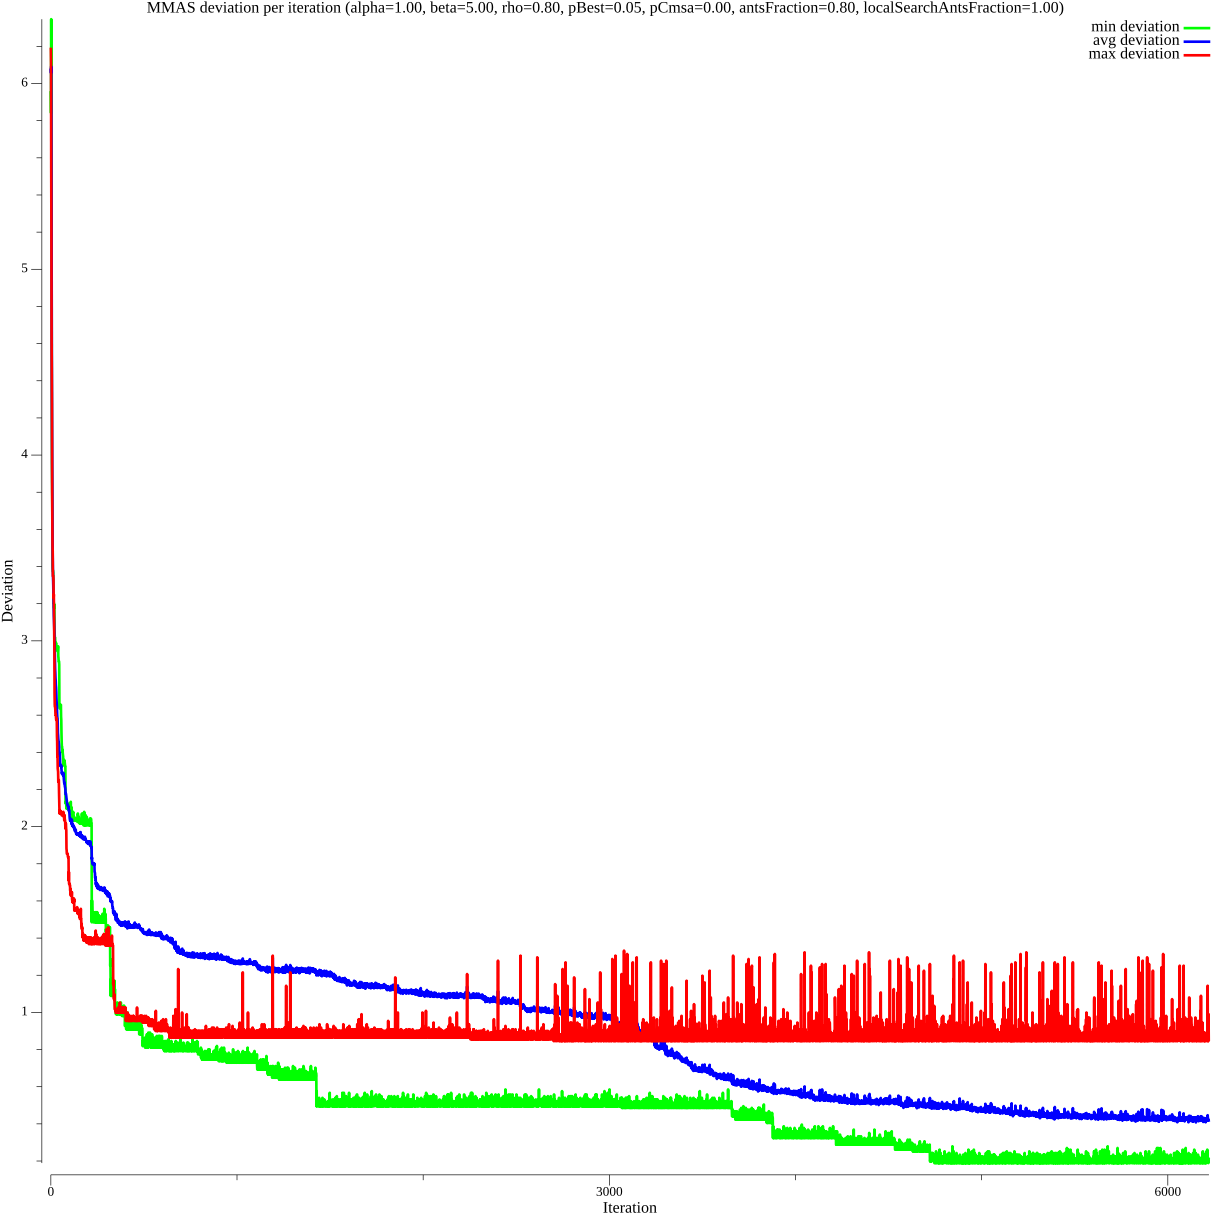
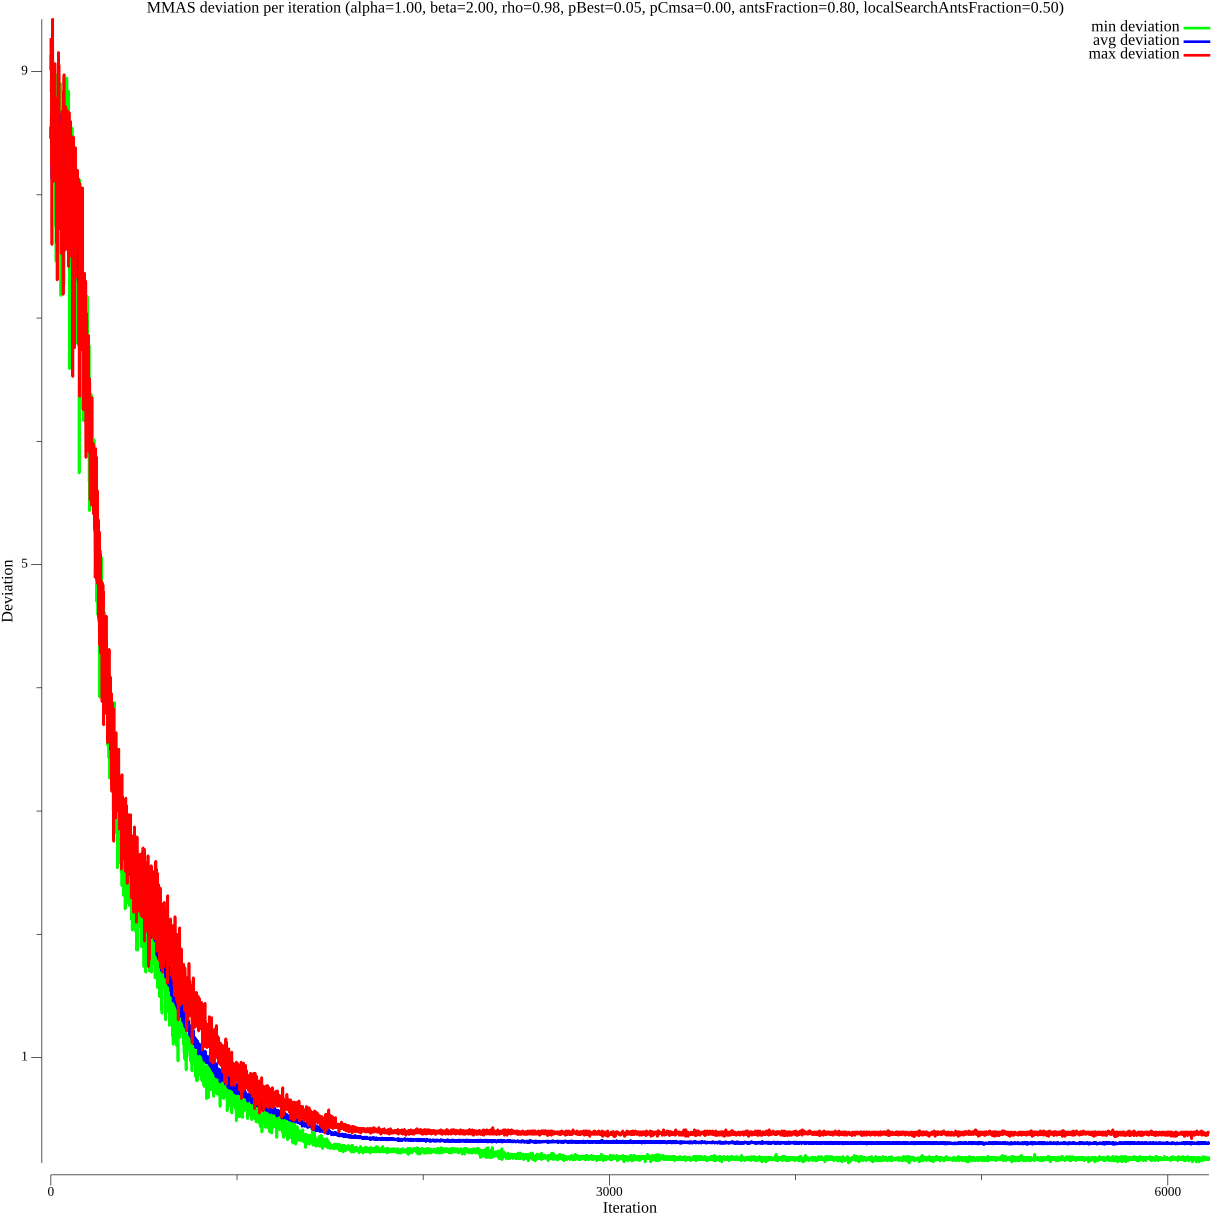
got rid of pBest since now its automatically calculated

Changed region(s): [[0.0312, 0.0312, 0.9984, 0.9672]]

diff --git a/main.go b/main.go
@@ -29,8 +29,8 @@ type ExperimentsData struct {
 }
 
 type ExperimentParameters struct {
-	alpha, beta, rho, pBest, pCmsa, antsPercentage, localSearchAntsPercentage float64
-	antsNumber, localSearchAntsNumber, iterations                             int
+	alpha, beta, rho, pCmsa, antsPercentage, localSearchAntsPercentage float64
+	antsNumber, localSearchAntsNumber, iterations                      int
 }
 
 type ExperimentResult struct {
@@ -96,7 +96,6 @@ func saveBestParametersInfo(fileName string, bestStatistics []ExperimentsDataSta
 	alphaCounts := make(map[float64]int)
 	betaCounts := make(map[float64]int)
 	rhoCounts := make(map[float64]int)
-	pBestCounts := make(map[float64]int)
 	pCmsaCounts := make(map[float64]int)
 	antsPercentageCounts := make(map[float64]int)
 	localSearchAntsPercentageCounts := make(map[float64]int)
@@ -106,7 +105,6 @@ func saveBestParametersInfo(fileName string, bestStatistics []ExperimentsDataSta
 		alphaCounts[params.alpha]++
 		betaCounts[params.beta]++
 		rhoCounts[params.rho]++
-		pBestCounts[params.pBest]++
 		pCmsaCounts[params.pCmsa]++
 		antsPercentageCounts[params.antsPercentage]++
 		localSearchAntsPercentageCounts[params.localSearchAntsPercentage]++
@@ -120,12 +118,12 @@ func saveBestParametersInfo(fileName string, bestStatistics []ExperimentsDataSta
 
 	// Best parameters
 	markdown += "## Best Parameters\n\n"
-	markdown += "| Alpha | Beta | Rho | pBest | pCmsa | AntsPercentage | LocalSearchAntsPercentage |\n"
-	markdown += "|-------|------|-----|-------|-------|----------------|---------------------------|\n"
+	markdown += "| Alpha | Beta | Rho | pCmsa | AntsPercentage | LocalSearchAntsPercentage |\n"
+	markdown += "|-------|------|-----|-------|----------------|---------------------------|\n"
 	for parameters := range uniqueParameters {
-		markdown += fmt.Sprintf("| %.2f | %.2f | %.2f | %.2f | %.2f | %.2f | %.2f |\n",
+		markdown += fmt.Sprintf("| %.2f | %.2f | %.2f | %.2f | %.2f | %.2f |\n",
 			parameters.alpha, parameters.beta, parameters.rho,
-			parameters.pBest, parameters.pCmsa, parameters.antsPercentage, parameters.localSearchAntsPercentage)
+			parameters.pCmsa, parameters.antsPercentage, parameters.localSearchAntsPercentage)
 	}
 	markdown += "\n"
 
@@ -134,7 +132,6 @@ func saveBestParametersInfo(fileName string, bestStatistics []ExperimentsDataSta
 	markdown += generateMarkdownCounts("Alpha", alphaCounts)
 	markdown += generateMarkdownCounts("Beta", betaCounts)
 	markdown += generateMarkdownCounts("Rho", rhoCounts)
-	markdown += generateMarkdownCounts("PBest", pBestCounts)
 	markdown += generateMarkdownCounts("pCmsa", pCmsaCounts)
 	markdown += generateMarkdownCounts("AntsPercentage", antsPercentageCounts)
 	markdown += generateMarkdownCounts("LocalSearchAntsPercentage", localSearchAntsPercentageCounts)
@@ -144,7 +141,6 @@ func saveBestParametersInfo(fileName string, bestStatistics []ExperimentsDataSta
 	minAlpha, maxAlpha := findMinMax(alphaCounts)
 	minBeta, maxBeta := findMinMax(betaCounts)
 	minRho, maxRho := findMinMax(rhoCounts)
-	minPBest, maxPBest := findMinMax(pBestCounts)
 	minPCmsa, maxPCmsa := findMinMax(pCmsaCounts)
 	minAntsPercentage, maxAntsPercentage := findMinMax(antsPercentageCounts)
 	minLocalSearchAntsPercentage, maxLocalSearchAntsPercentage := findMinMax(localSearchAntsPercentageCounts)
@@ -152,7 +148,6 @@ func saveBestParametersInfo(fileName string, bestStatistics []ExperimentsDataSta
 	markdown += fmt.Sprintf("- **Alpha**: %.2f - %.2f\n", minAlpha, maxAlpha)
 	markdown += fmt.Sprintf("- **Beta**: %.2f - %.2f\n", minBeta, maxBeta)
 	markdown += fmt.Sprintf("- **Rho**: %.2f - %.2f\n", minRho, maxRho)
-	markdown += fmt.Sprintf("- **pBest**: %.2f - %.2f\n", minPBest, maxPBest)
 	markdown += fmt.Sprintf("- **pCmsa**: %.2f - %.2f\n", minPCmsa, maxPCmsa)
 	markdown += fmt.Sprintf("- **AntsPercentage**: %.2f - %.2f\n", minAntsPercentage, maxAntsPercentage)
 	markdown += fmt.Sprintf("- **LocalSearchAntsPercentage**: %.2f - %.2f\n", minLocalSearchAntsPercentage, maxLocalSearchAntsPercentage)
@@ -390,30 +385,28 @@ func readStatistics(csvFilePath string) ([]ExperimentsDataStatistics, error) {
 		alpha, _ := strconv.ParseFloat(record[0], 64)
 		beta, _ := strconv.ParseFloat(record[1], 64)
 		rho, _ := strconv.ParseFloat(record[2], 64)
-		pBest, _ := strconv.ParseFloat(record[3], 64)
-		pCmsa, _ := strconv.ParseFloat(record[4], 64)
-		antsPercentage, _ := strconv.ParseFloat(record[5], 64)
-		antsNumber, _ := strconv.Atoi(record[6])
-		localSearchAntsPercentage, _ := strconv.ParseFloat(record[7], 64)
-		iterations, _ := strconv.Atoi(record[8])
-		minBestAtIteration, _ := strconv.Atoi(record[9])
-		averageBestAtIteration, _ := strconv.ParseFloat(record[10], 64)
-		maxBestAtIteration, _ := strconv.Atoi(record[11])
-		minThreeOptImprovementsCount, _ := strconv.Atoi(record[12])
-		averageThreeOptImprovementsCount, _ := strconv.ParseFloat(record[13], 64)
-		maxThreeOptImprovementsCount, _ := strconv.Atoi(record[14])
-		minBestDeviation, _ := strconv.ParseFloat(record[15], 64)
-		averageBestDeviation, _ := strconv.ParseFloat(record[16], 64)
-		maxBestDeviation, _ := strconv.ParseFloat(record[17], 64)
-		successRate, _ := strconv.ParseFloat(record[18], 64)
-		averageComputationTime, _ := strconv.ParseInt(record[19], 10, 64)
+		pCmsa, _ := strconv.ParseFloat(record[3], 64)
+		antsPercentage, _ := strconv.ParseFloat(record[4], 64)
+		antsNumber, _ := strconv.Atoi(record[5])
+		localSearchAntsPercentage, _ := strconv.ParseFloat(record[6], 64)
+		iterations, _ := strconv.Atoi(record[7])
+		minBestAtIteration, _ := strconv.Atoi(record[8])
+		averageBestAtIteration, _ := strconv.ParseFloat(record[9], 64)
+		maxBestAtIteration, _ := strconv.Atoi(record[10])
+		minThreeOptImprovementsCount, _ := strconv.Atoi(record[11])
+		averageThreeOptImprovementsCount, _ := strconv.ParseFloat(record[12], 64)
+		maxThreeOptImprovementsCount, _ := strconv.Atoi(record[13])
+		minBestDeviation, _ := strconv.ParseFloat(record[14], 64)
+		averageBestDeviation, _ := strconv.ParseFloat(record[15], 64)
+		maxBestDeviation, _ := strconv.ParseFloat(record[16], 64)
+		successRate, _ := strconv.ParseFloat(record[17], 64)
+		averageComputationTime, _ := strconv.ParseInt(record[18], 10, 64)
 
 		statistic := ExperimentsDataStatistics{
 			ExperimentParameters: ExperimentParameters{
 				alpha:                     alpha,
 				beta:                      beta,
 				rho:                       rho,
-				pBest:                     pBest,
 				pCmsa:                     pCmsa,
 				antsPercentage:            antsPercentage,
 				antsNumber:                antsNumber,
@@ -444,7 +437,6 @@ func saveStatistics(resultCsvPath string, statistics []ExperimentsDataStatistics
 		"Alpha",
 		"Beta",
 		"Rho",
-		"pBest",
 		"pCmsa",
 		"Ants fraction",
 		"Ants number",
@@ -476,7 +468,6 @@ func saveStatistics(resultCsvPath string, statistics []ExperimentsDataStatistics
 			fmt.Sprintf(floatFormat, statistic.alpha),
 			fmt.Sprintf(floatFormat, statistic.beta),
 			fmt.Sprintf(floatFormat, statistic.rho),
-			fmt.Sprintf(floatFormat, statistic.pBest),
 			fmt.Sprintf(floatFormat, statistic.pCmsa),
 			fmt.Sprintf(floatFormat, statistic.antsPercentage),
 			strconv.Itoa(statistic.antsNumber),
@@ -617,7 +608,6 @@ func runExperiments(numberOfRuns int, parameters ExperimentParameters, knownOpti
 		parameters.alpha,
 		parameters.beta,
 		parameters.rho,
-		parameters.pBest,
 		parameters.pCmsa,
 		parameters.antsNumber,
 		parameters.localSearchAntsNumber,
@@ -668,15 +658,13 @@ func generateParameters() []ExperimentParameters {
 	for _, alpha := range utilities.GenerateRange(1.0, 1.0, 0.25) {
 		for _, beta := range utilities.GenerateRange(2.0, 2.0, 1.0) {
 			for _, rho := range utilities.GenerateRange(0.8, 0.8, 0.1) {
-				for _, pBest := range utilities.GenerateRange(0.005, 0.005, 0.005) {
-					for _, pCmsa := range utilities.GenerateRange(0.0, 1.0, 0.25) {
-						for _, antsPercentage := range utilities.GenerateRange(0.8, 0.8, 0.1) {
-							for _, localSearchAntsPercentage := range utilities.GenerateRange(0.5, 0.5, 0.5) {
-								parameters = append(parameters,
-									ExperimentParameters{
-										alpha, beta, rho, pBest, pCmsa, antsPercentage, localSearchAntsPercentage, 0, 0, 0,
-									})
-							}
+				for _, pCmsa := range utilities.GenerateRange(0.0, 1.0, 0.25) {
+					for _, antsPercentage := range utilities.GenerateRange(0.8, 0.8, 0.1) {
+						for _, localSearchAntsPercentage := range utilities.GenerateRange(0.5, 0.5, 0.5) {
+							parameters = append(parameters,
+								ExperimentParameters{
+									alpha, beta, rho, pCmsa, antsPercentage, localSearchAntsPercentage, 0, 0, 0,
+								})
 						}
 					}
 				}
@@ -800,7 +788,7 @@ func main() {
 
 			inputFileName := path.Base(filePath)
 			for _, file := range files {
-				file = "ftv170.atsp"
+				file = "dc112.atsp"
 				assumedProblemSize, _ := utilities.ExtractNumber(file)
 				if inputFileName == file && 100 <= assumedProblemSize && assumedProblemSize < 200 {
 					return true
@@ -965,7 +953,6 @@ func saveExperimentPlots(statistics []ExperimentsDataStatistics, plotTitle, plot
 		if statistic.alpha != bestStatistic.alpha ||
 			statistic.beta != bestStatistic.beta ||
 			statistic.rho != bestStatistic.rho ||
-			statistic.pBest != bestStatistic.pBest ||
 			statistic.antsPercentage != bestStatistic.antsPercentage ||
 			statistic.localSearchAntsPercentage != bestStatistic.localSearchAntsPercentage {
 			continue
@@ -976,8 +963,8 @@ func saveExperimentPlots(statistics []ExperimentsDataStatistics, plotTitle, plot
 		maxDeviationPlotData := utilities.LinePlotData{Name: "max deviation", Color: color.RGBA{R: 255, A: 255}, Values: statistic.maxDeviationPerIteration}
 		lines := []utilities.LinePlotData{minDeviationPlotData, avgDeviationPlotData, maxDeviationPlotData}
 
-		titleSuffix := fmt.Sprintf(" (alpha=%.2f, beta=%.2f, rho=%.2f, pBest=%.2f, pCmsa=%.2f, antsFraction=%.2f, localSearchAntsFraction=%.2f)",
-			statistic.alpha, statistic.beta, statistic.rho, statistic.pBest, statistic.pCmsa, statistic.antsPercentage, statistic.localSearchAntsPercentage)
+		titleSuffix := fmt.Sprintf(" (alpha=%.2f, beta=%.2f, rho=%.2f, pCmsa=%.2f, antsFraction=%.2f, localSearchAntsFraction=%.2f)",
+			statistic.alpha, statistic.beta, statistic.rho, statistic.pCmsa, statistic.antsPercentage, statistic.localSearchAntsPercentage)
 
 		pCmsaPlotSuffix := "_pCmsa=" + strconv.Itoa(int(100*statistic.pCmsa)) + "%"
 		plotPath := plotPathPrefix + pCmsaPlotSuffix + ".png"

diff --git a/modules/algorithms/aco/aco.go b/modules/algorithms/aco/aco.go
@@ -11,7 +11,7 @@ import (
 )
 
 type ACO struct {
-	alpha, beta, rho, pDec, pCmsa                                  float64
+	alpha, beta, rho, pCmsa                                        float64
 	ants, localSearchAnts, iterations, currentIteration, dimension int
 	distances                                                      [][]float64
 	cmsa                                                           [][]float64
@@ -28,7 +28,7 @@ type ACO struct {
 	ThreeOptImprovementsCount int
 }
 
-func NewACO(alpha, beta, rho, pBest, pCmsa float64, ants, localSearchAnts, iterations int, targetTourLength float64, distances, cmsa [][]float64) *ACO {
+func NewACO(alpha, beta, rho, pCmsa float64, ants, localSearchAnts, iterations int, targetTourLength float64, distances, cmsa [][]float64) *ACO {
 	dimension := len(distances)
 	pheromones := make([][]float64, dimension)
 	desirabilitiesPreCalc := make([][]float64, dimension)
@@ -63,7 +63,6 @@ func NewACO(alpha, beta, rho, pBest, pCmsa float64, ants, localSearchAnts, itera
 		alpha:            alpha,
 		beta:             beta,
 		rho:              rho,
-		pDec:             math.Pow(pBest, 1.0/float64(dimension)),
 		pCmsa:            pCmsa,
 		ants:             ants,
 		localSearchAnts:  localSearchAnts,

diff --git a/results/best_parameters_report.md b/results/best_parameters_report.md
@@ -1,23 +1,48 @@
 # Best Parameters Report
 
-Found **12** best unique parameter combinations.
+Found **37** best unique parameter combinations.
 
 ## Best Parameters
 
-| Alpha | Beta | Rho | pBest | pCmsa | AntsPercentage | LocalSearchAntsPercentage |
-|-------|------|-----|-------|-------|----------------|---------------------------|
-| 1.00 | 5.00 | 0.80 | 0.05 | 0.50 | 0.80 | 1.00 |
-| 1.00 | 5.00 | 0.80 | 0.05 | 0.75 | 0.80 | 1.00 |
-| 1.00 | 5.00 | 0.80 | 0.05 | 0.00 | 0.80 | 0.00 |
-| 1.00 | 5.00 | 0.80 | 0.05 | 1.00 | 0.80 | 0.00 |
-| 1.00 | 5.00 | 0.80 | 0.05 | 0.50 | 0.80 | 0.50 |
-| 1.00 | 5.00 | 0.80 | 0.05 | 0.75 | 0.80 | 0.50 |
-| 1.00 | 5.00 | 0.80 | 0.05 | 0.00 | 0.80 | 1.00 |
-| 1.00 | 5.00 | 0.80 | 0.05 | 0.25 | 0.80 | 0.50 |
-| 1.00 | 5.00 | 0.80 | 0.05 | 0.00 | 0.80 | 0.50 |
-| 1.00 | 5.00 | 0.80 | 0.05 | 0.25 | 0.80 | 1.00 |
-| 1.00 | 5.00 | 0.80 | 0.05 | 0.50 | 0.80 | 0.00 |
-| 1.00 | 5.00 | 0.80 | 0.05 | 0.25 | 0.80 | 0.00 |
+| Alpha | Beta | Rho | pCmsa | AntsPercentage | LocalSearchAntsPercentage |
+|-------|------|-----|-------|----------------|---------------------------|
+| 1.00 | 5.00 | 0.80 | 0.05 | 0.00 | 81.00 |
+| 1.00 | 5.00 | 0.80 | 0.05 | 0.25 | 13.00 |
+| 1.00 | 5.00 | 0.80 | 0.05 | 0.75 | 39.00 |
+| 1.00 | 5.00 | 0.80 | 0.05 | 0.50 | 52.00 |
+| 1.00 | 5.00 | 0.80 | 0.05 | 0.00 | 159.00 |
+| 1.00 | 5.00 | 0.80 | 0.05 | 0.25 | 53.00 |
+| 1.00 | 5.00 | 0.80 | 0.05 | 0.75 | 32.00 |
+| 1.00 | 5.00 | 0.80 | 0.05 | 0.25 | 36.00 |
+| 1.00 | 5.00 | 0.80 | 0.05 | 0.25 | 45.00 |
+| 1.00 | 5.00 | 0.80 | 0.05 | 0.25 | 108.00 |
+| 1.00 | 5.00 | 0.80 | 0.05 | 0.00 | 151.00 |
+| 1.00 | 5.00 | 0.80 | 0.05 | 0.50 | 39.00 |
+| 1.00 | 5.00 | 0.80 | 0.05 | 0.75 | 53.00 |
+| 1.00 | 5.00 | 0.80 | 0.05 | 0.25 | 97.00 |
+| 1.00 | 5.00 | 0.80 | 0.05 | 0.00 | 58.00 |
+| 1.00 | 5.00 | 0.80 | 0.05 | 0.75 | 29.00 |
+| 1.00 | 2.00 | 0.98 | 0.05 | 0.25 | 90.00 |
+| 1.00 | 5.00 | 0.80 | 0.05 | 0.25 | 28.00 |
+| 1.00 | 5.00 | 0.80 | 0.05 | 0.50 | 80.00 |
+| 1.00 | 5.00 | 0.80 | 0.05 | 0.25 | 39.00 |
+| 1.00 | 5.00 | 0.80 | 0.05 | 0.25 | 57.00 |
+| 1.00 | 5.00 | 0.80 | 0.05 | 0.25 | 81.00 |
+| 1.00 | 2.00 | 0.80 | 0.00 | 0.80 | 0.50 |
+| 1.00 | 5.00 | 0.80 | 0.05 | 0.50 | 101.00 |
+| 1.00 | 5.00 | 0.80 | 0.05 | 0.00 | 141.00 |
+| 1.00 | 5.00 | 0.80 | 0.05 | 0.25 | 14.00 |
+| 1.00 | 5.00 | 0.80 | 0.05 | 0.50 | 43.00 |
+| 1.00 | 5.00 | 0.80 | 0.05 | 0.50 | 105.00 |
+| 1.00 | 5.00 | 0.80 | 0.05 | 0.00 | 56.00 |
+| 1.00 | 5.00 | 0.80 | 0.05 | 0.50 | 89.00 |
+| 1.00 | 5.00 | 0.80 | 0.05 | 0.25 | 129.00 |
+| 1.00 | 5.00 | 0.80 | 0.05 | 0.75 | 80.00 |
+| 1.00 | 5.00 | 0.80 | 0.05 | 0.00 | 73.00 |
+| 1.00 | 5.00 | 0.80 | 0.05 | 0.25 | 121.00 |
+| 1.00 | 5.00 | 0.80 | 0.05 | 1.00 | 35.00 |
+| 1.00 | 5.00 | 0.80 | 0.05 | 0.50 | 26.00 |
+| 1.00 | 5.00 | 0.80 | 0.05 | 0.50 | 113.00 |
 
 ## Parameter Values Occurrences
 
@@ -25,56 +50,82 @@ Found **12** best unique parameter combinations.
 
 | Value | Count |
 |-------|-------|
-| 1.00 | 12 |
+| 1.00 | 37 |
 
 ### Beta
 
 | Value | Count |
 |-------|-------|
-| 5.00 | 12 |
+| 2.00 | 2 |
+| 5.00 | 35 |
 
 ### Rho
 
 | Value | Count |
 |-------|-------|
-| 0.80 | 12 |
-
-### PBest
-
-| Value | Count |
-|-------|-------|
-| 0.05 | 12 |
+| 0.80 | 36 |
+| 0.98 | 1 |
 
 ### pCmsa
 
 | Value | Count |
 |-------|-------|
-| 0.00 | 3 |
-| 0.25 | 3 |
-| 0.50 | 3 |
-| 0.75 | 2 |
-| 1.00 | 1 |
+| 0.00 | 1 |
+| 0.05 | 36 |
 
 ### AntsPercentage
 
 | Value | Count |
 |-------|-------|
-| 0.80 | 12 |
+| 0.00 | 7 |
+| 0.25 | 14 |
+| 0.50 | 9 |
+| 0.75 | 5 |
+| 0.80 | 1 |
+| 1.00 | 1 |
 
 ### LocalSearchAntsPercentage
 
 | Value | Count |
 |-------|-------|
-| 0.00 | 4 |
-| 0.50 | 4 |
-| 1.00 | 4 |
+| 0.50 | 1 |
+| 13.00 | 1 |
+| 14.00 | 1 |
+| 26.00 | 1 |
+| 28.00 | 1 |
+| 29.00 | 1 |
+| 32.00 | 1 |
+| 35.00 | 1 |
+| 36.00 | 1 |
+| 39.00 | 3 |
+| 43.00 | 1 |
+| 45.00 | 1 |
+| 52.00 | 1 |
+| 53.00 | 2 |
+| 56.00 | 1 |
+| 57.00 | 1 |
+| 58.00 | 1 |
+| 73.00 | 1 |
+| 80.00 | 2 |
+| 81.00 | 2 |
+| 89.00 | 1 |
+| 90.00 | 1 |
+| 97.00 | 1 |
+| 101.00 | 1 |
+| 105.00 | 1 |
+| 108.00 | 1 |
+| 113.00 | 1 |
+| 121.00 | 1 |
+| 129.00 | 1 |
+| 141.00 | 1 |
+| 151.00 | 1 |
+| 159.00 | 1 |
 
 ## Parameter Ranges
 
 - **Alpha**: 1.00 - 1.00
-- **Beta**: 5.00 - 5.00
-- **Rho**: 0.80 - 0.80
-- **pBest**: 0.05 - 0.05
-- **pCmsa**: 0.00 - 1.00
-- **AntsPercentage**: 0.80 - 0.80
-- **LocalSearchAntsPercentage**: 0.00 - 1.00
+- **Beta**: 2.00 - 5.00
+- **Rho**: 0.80 - 0.98
+- **pCmsa**: 0.00 - 0.05
+- **AntsPercentage**: 0.00 - 1.00
+- **LocalSearchAntsPercentage**: 0.50 - 159.00
